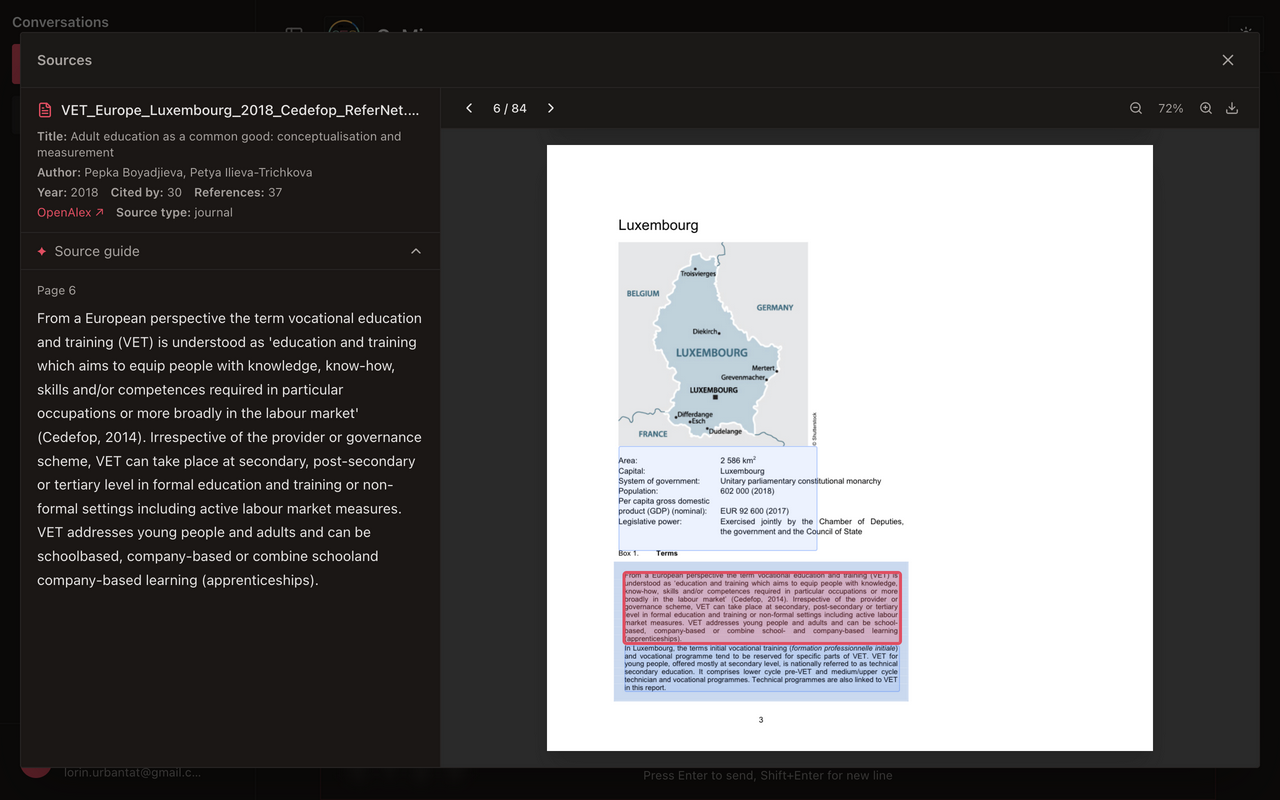
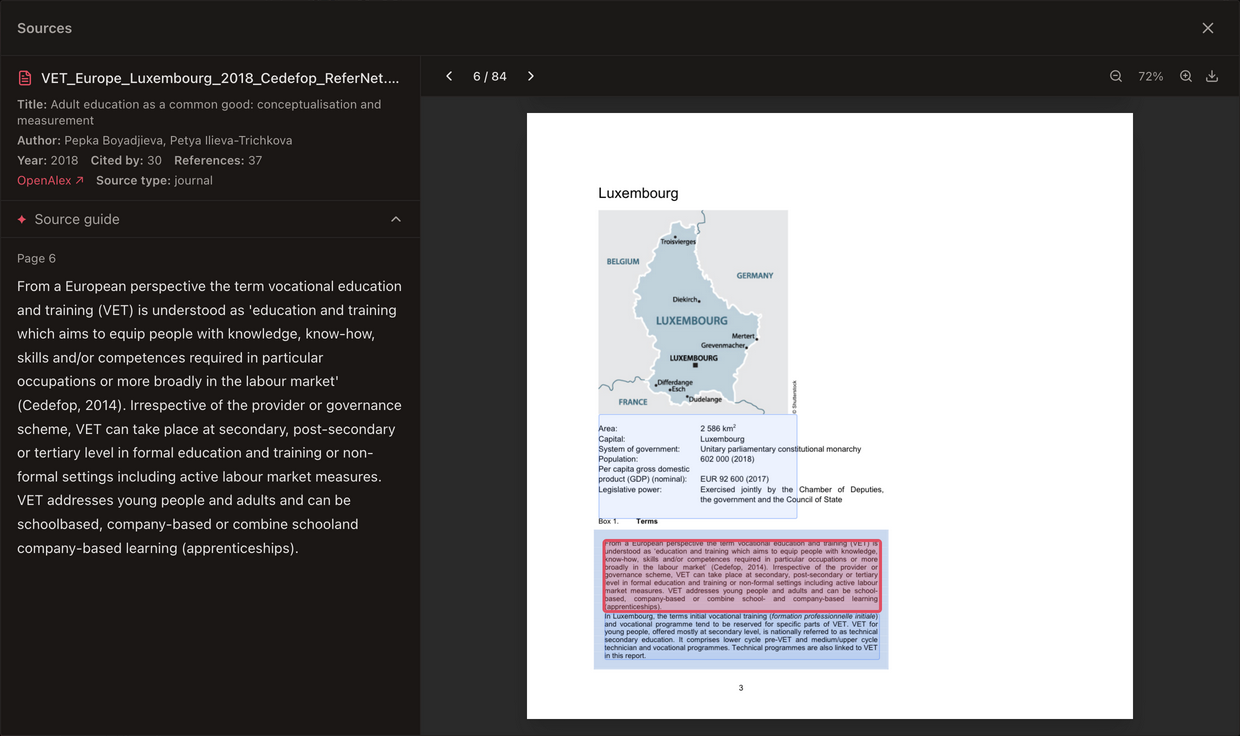
Crop source screenshot to exclude account information

diff --git a/docs/projects-sources.md b/docs/projects-sources.md
@@ -25,7 +25,7 @@ All 26 entries marked `include: true` in the supplied selection are included; ex
 
 ## Image provenance
 
-- CesBot: real shared-browser captures after the user signed in. The chat screenshot excludes the account sidebar. The citation capture shows the source viewer, with the account area covered by the modal. The private application URL is absent from published content.
+- CesBot: real shared-browser captures after the user signed in. The chat screenshot excludes the account sidebar. The citation capture is cropped to the source-viewer modal, excluding the account area. The private application URL is absent from published content.
 - Flateroo: supplied English App Store screenshots, resized and encoded as JPEG for web delivery.
 - CEMETS: supplied local application screen montage.
 - Phone Message, Drifa, and Thinking Outside the Bias: images from their respective public repositories.
